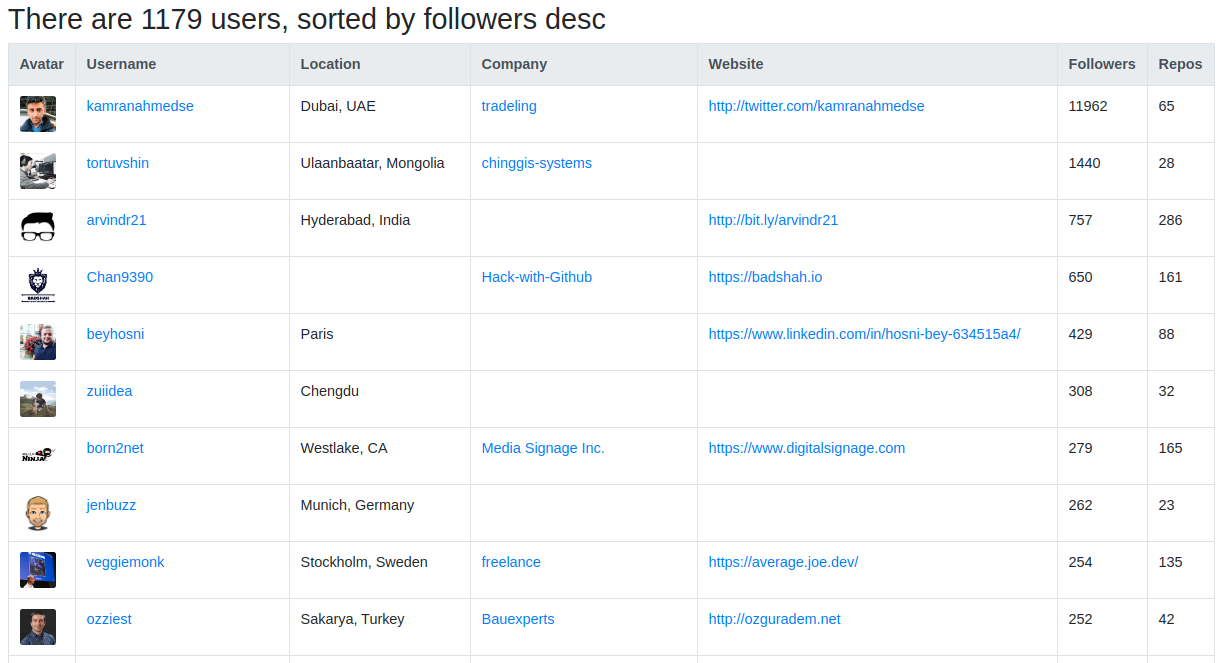
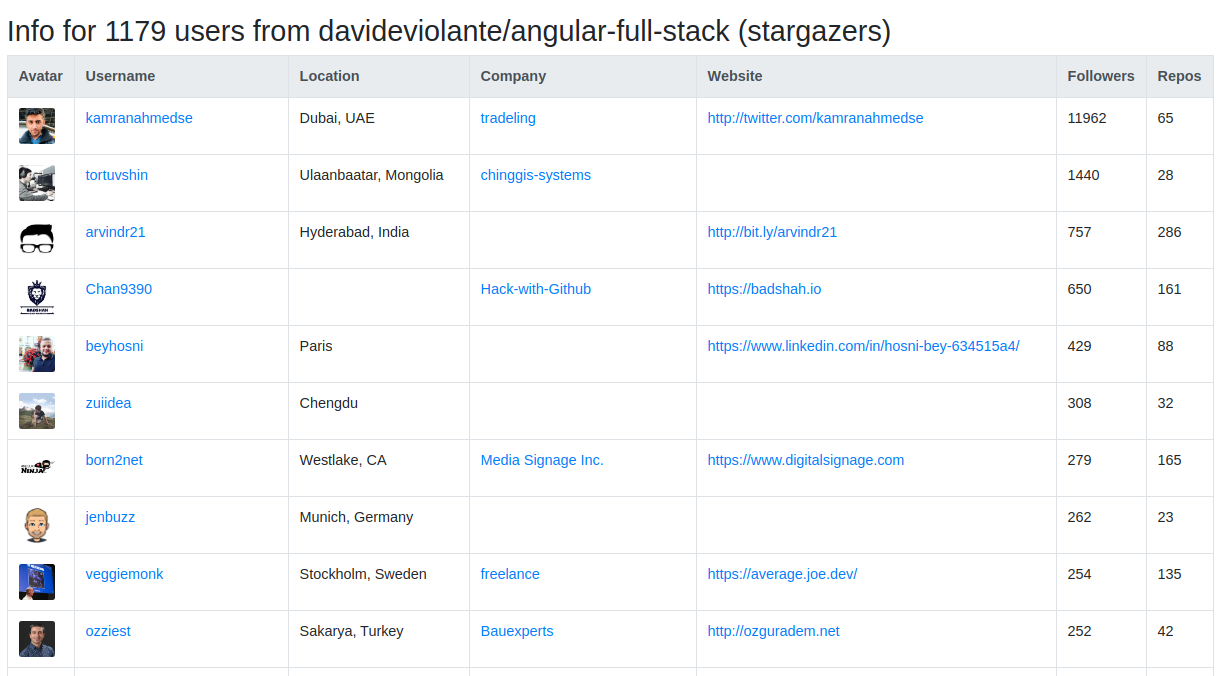
Add owner, repo, endpoint info to page

diff --git a/routes/github.js b/routes/github.js
@@ -39,8 +39,8 @@ async function main(req, res, next) {
     for (const user of data) {
       userResponses.push(callGitHubUsers(user.login || user.owner.login));
     }
-    let userData = await Promise.all(userResponses);
-    userData = userData.map(response => response.data)
+    let users = await Promise.all(userResponses);
+    users = users.map(response => response.data)
       .map(user => ({
         id: user.id,
         username: user.login,
@@ -53,7 +53,7 @@ async function main(req, res, next) {
         repos: user.public_repos,
       }))
       .sort((a, b) => b.followers - a.followers);
-    res.locals.data = userData;
+    res.locals = { users, owner, repo, endpoint };
     console.log('Done');
     console.log(`GitHub requests left: ${firstResponse.headers['x-ratelimit-remaining']}/${firstResponse.headers['x-ratelimit-limit']}`);
     next();

diff --git a/index.js b/index.js
@@ -15,5 +15,6 @@ app.get('/:owner/:repo/:endpoint', getUsers, showIndex);
 app.listen(port, () => console.log(`Repository Famous Users listening on port ${port}`));
 
 function showIndex(req, res) {
-  res.render('index', { users: res.locals.data });
+  const { users, owner, repo, endpoint } = res.locals;
+  res.render('index', { users, owner, repo, endpoint });
 }
